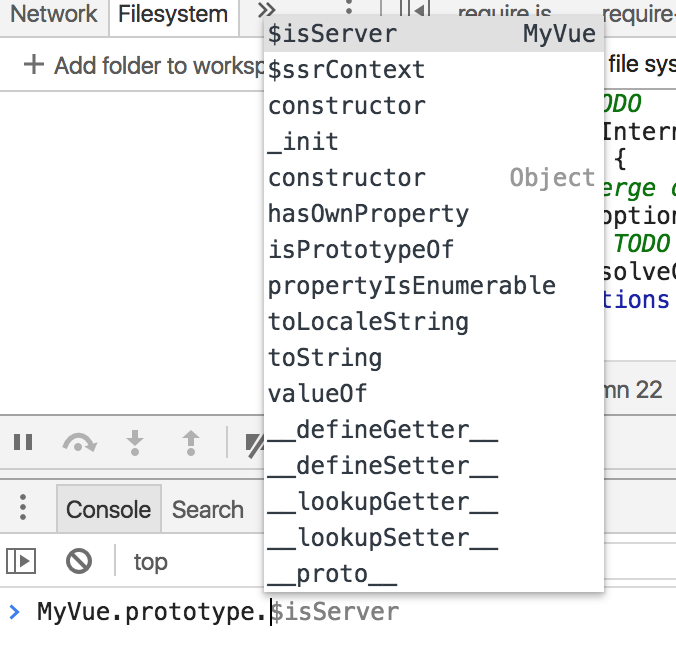
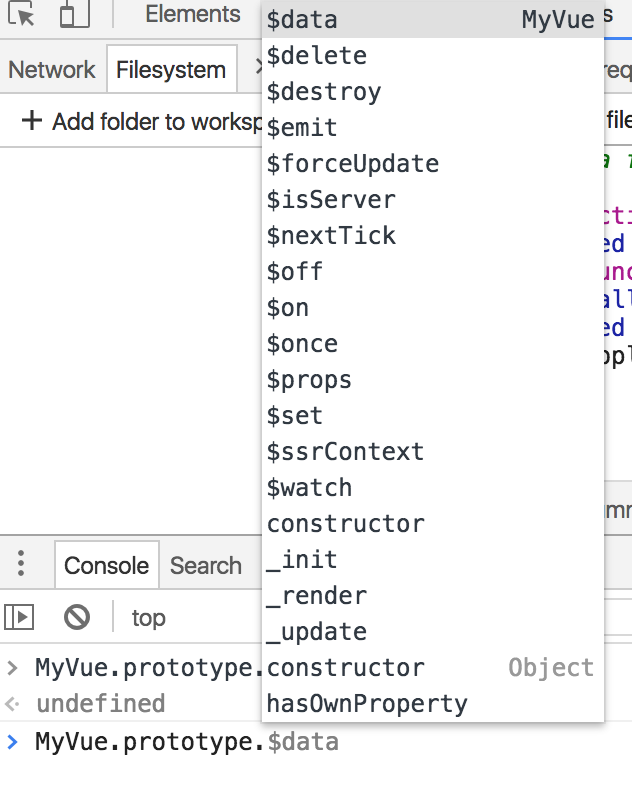
add: 给原型初始化流程

Changed region(s): [[0.0, 0.0, 1.0, 0.9726]]

diff --git a/src/instance/state.js b/src/instance/state.js
@@ -1,3 +1,77 @@
+import { warn, isPlainObject } from '../utils/index'
+import Watcher from '../observer/watcher'
+import {
+  set,
+  del,
+} from '../observer/index'
+
 export function initState() {
   console.log('initState')
+}
+
+export function stateMixin(Vue) {
+  // flow somehow has problems with directly declared definition object
+  // when using Object.defineProperty, so we have to procedurally build up
+  // the object here.
+  const dataDef = {}
+  dataDef.get = function() {
+    return this._data
+  }
+  const propsDef = {}
+  propsDef.get = function() {
+    return this._props
+  }
+  if (process.env.NODE_ENV !== 'production') {
+    dataDef.set = function(newData) {
+      warn(
+        'Avoid replacing instance root $data. ' +
+          'Use nested data properties instead.',
+        this
+      )
+    }
+    propsDef.set = function() {
+      warn(`$props is readonly.`, this)
+    }
+  }
+  Object.defineProperty(Vue.prototype, '$data', dataDef)
+  Object.defineProperty(Vue.prototype, '$props', propsDef)
+
+  Vue.prototype.$set = set
+  Vue.prototype.$delete = del
+
+  Vue.prototype.$watch = function(
+    expOrFn,
+    cb,
+    options
+  ) {
+    const vm = this
+    if (isPlainObject(cb)) {
+      return createWatcher(vm, expOrFn, cb, options)
+    }
+    options = options || {}
+    options.user = true
+    const watcher = new Watcher(vm, expOrFn, cb, options)
+    if (options.immediate) {
+      cb.call(vm, watcher.value)
+    }
+    return function unwatchFn() {
+      watcher.teardown()
+    }
+  }
+}
+
+function createWatcher(
+  vm,
+  keyOrFn,
+  handler,
+  options
+) {
+  if (isPlainObject(handler)) {
+    options = handler
+    handler = handler.handler
+  }
+  if (typeof handler === 'string') {
+    handler = vm[handler]
+  }
+  return vm.$watch(keyOrFn, handler, options)
 }

diff --git a/src/instance/index.js b/src/instance/index.js
@@ -1,11 +1,21 @@
 import { initMixin } from './init'
+import { stateMixin } from './state'
+import { renderMixin } from './render'
+import { eventsMixin } from './events'
+import { lifecycleMixin } from './lifecycle'
+import { warn } from '../utils/index'
+
 function MyVue(options) {
   if (process.env.NODE_ENV !== 'production' && !(this instanceof MyVue)) {
-    console.error('Vue is a constructor and should be called with the `new` keyword')
+    warn('Vue is a constructor and should be called with the `new` keyword')
     return
   }
   this._init(options)
 }
 initMixin(MyVue)
+stateMixin(MyVue)
+eventsMixin(MyVue)
+lifecycleMixin(MyVue)
+renderMixin(MyVue)
 
 export default MyVue

diff --git a/src/instance/lifecycle.js b/src/instance/lifecycle.js
@@ -5,3 +5,15 @@ export function initLifecycle() {
 export function callHook(vm, msg) {
   console.log(`callHook:${msg}`)
 }
+
+export function lifecycleMixin (Vue) {
+  Vue.prototype._update = function () {
+    console.log('_update')
+  }
+  Vue.prototype.$forceUpdate = function() {
+    console.log('$forceUpdate')
+  }
+  Vue.prototype.$destroy = function () {
+    console.log('$destroy')
+  }
+}

diff --git a/src/instance/events.js b/src/instance/events.js
@@ -1,3 +1,20 @@
 export function initEvents() {
   console.log('initEvents')
 }
+export function eventsMixin(Vue) {
+  Vue.prototype.$on = function() {
+    console.log('$on')
+  }
+
+  Vue.prototype.$once = function() {
+    console.log('$once')
+  }
+
+  Vue.prototype.$off = function() {
+    console.log('$off')
+  }
+
+  Vue.prototype.$emit = function(event) {
+    console.log('$emit')
+  }
+}

diff --git a/src/instance/render.js b/src/instance/render.js
@@ -1,3 +1,12 @@
 export function initRender() {
   console.log('initRender')
 }
+
+export function renderMixin(Vue) {
+  Vue.prototype.$nextTick = function(fn) {
+    console.log('$nextTick')
+  }
+  Vue.prototype._render = function() {
+    console.log('_render')
+  }
+}

diff --git a/src/observer/watcher.js b/src/observer/watcher.js
@@ -1,0 +1,11 @@
+export default class Watcher {
+  constructor() {
+    console.log('new Watcher')
+  }
+  /**
+   * Remove self from all dependencies' subscriber list.
+   */
+  teardown () {
+    console.log('watcher is teardown')    
+  }
+}

diff --git a/src/instance/proxy.js b/src/instance/proxy.js
@@ -1,0 +1,3 @@
+export function initProxy() {
+  console.log('initProxy')
+}

diff --git a/notes/1.md b/notes/1.md
@@ -15,7 +15,22 @@ lifecycleMixin(Vue)
 renderMixin(Vue)
 ```
 
+## 初始化原型（实例）的方法和属性
+
+[initMixin](https://github.com/vuejs/vue/blob/dev/src/core/instance/init.js)方法给原型增加了`_init`方法，也就是每次执行`new Vew()`的时候都会调用。具体的后面再说。// TODO
+
+[stateMixin](https://github.com/vuejs/vue/blob/dev/src/core/instance/state.js)给原型挂载了`$data`、`$props`属性，并重写了它们的`getter`,分别读取实例的`_data`和`_props`。
+然后挂载了`$set`、`$del`、`$watch`方法，这些后面再细看。 // TODO
+
+[eventMixin](https://github.com/vuejs/vue/blob/dev/src/core/instance/events.js)给原型挂载了`$on`、`$once`、`$off`、`$emit`方法，后续细看。// TODO
+
+[lifecycleMixin](https://github.com/vuejs/vue/blob/dev/src/core/instance/lifecycle.js) 方法给原型定义了`_update`方法、以及`$forceUpdate`、`$destroy`, 后续细看 // TODO
+
+[renderMixin](https://github.com/vuejs/vue/blob/dev/src/core/instance/render.js)方法给原型定义了`$nextTick`方法，并且执行了`installRenderHelpers`方法给原型增加了一系列私有的方法，和`_render`方法,后续细看 //TODO
+
 最后抛出Vue构造函数
+
+## 初始化全局api
 
 然后执行[initGlobalApi(Vue)](https://github.com/vuejs/vue/blob/dev/src/core/global-api/index.js)方法，将一些方法和属性挂在构造函数上成为全局api
 如：
@@ -94,3 +109,7 @@ export default {
 <img src="./assets/3.png"/>
 <img src="./assets/4.png"/>
 （给原型初始化的部分没写，明天加吧）
+
+## 知识点
+
+[Object.defineProperty](https://developer.mozilla.org/zh-CN/docs/Web/JavaScript/Reference/Global_Objects/Object/defineProperty)
